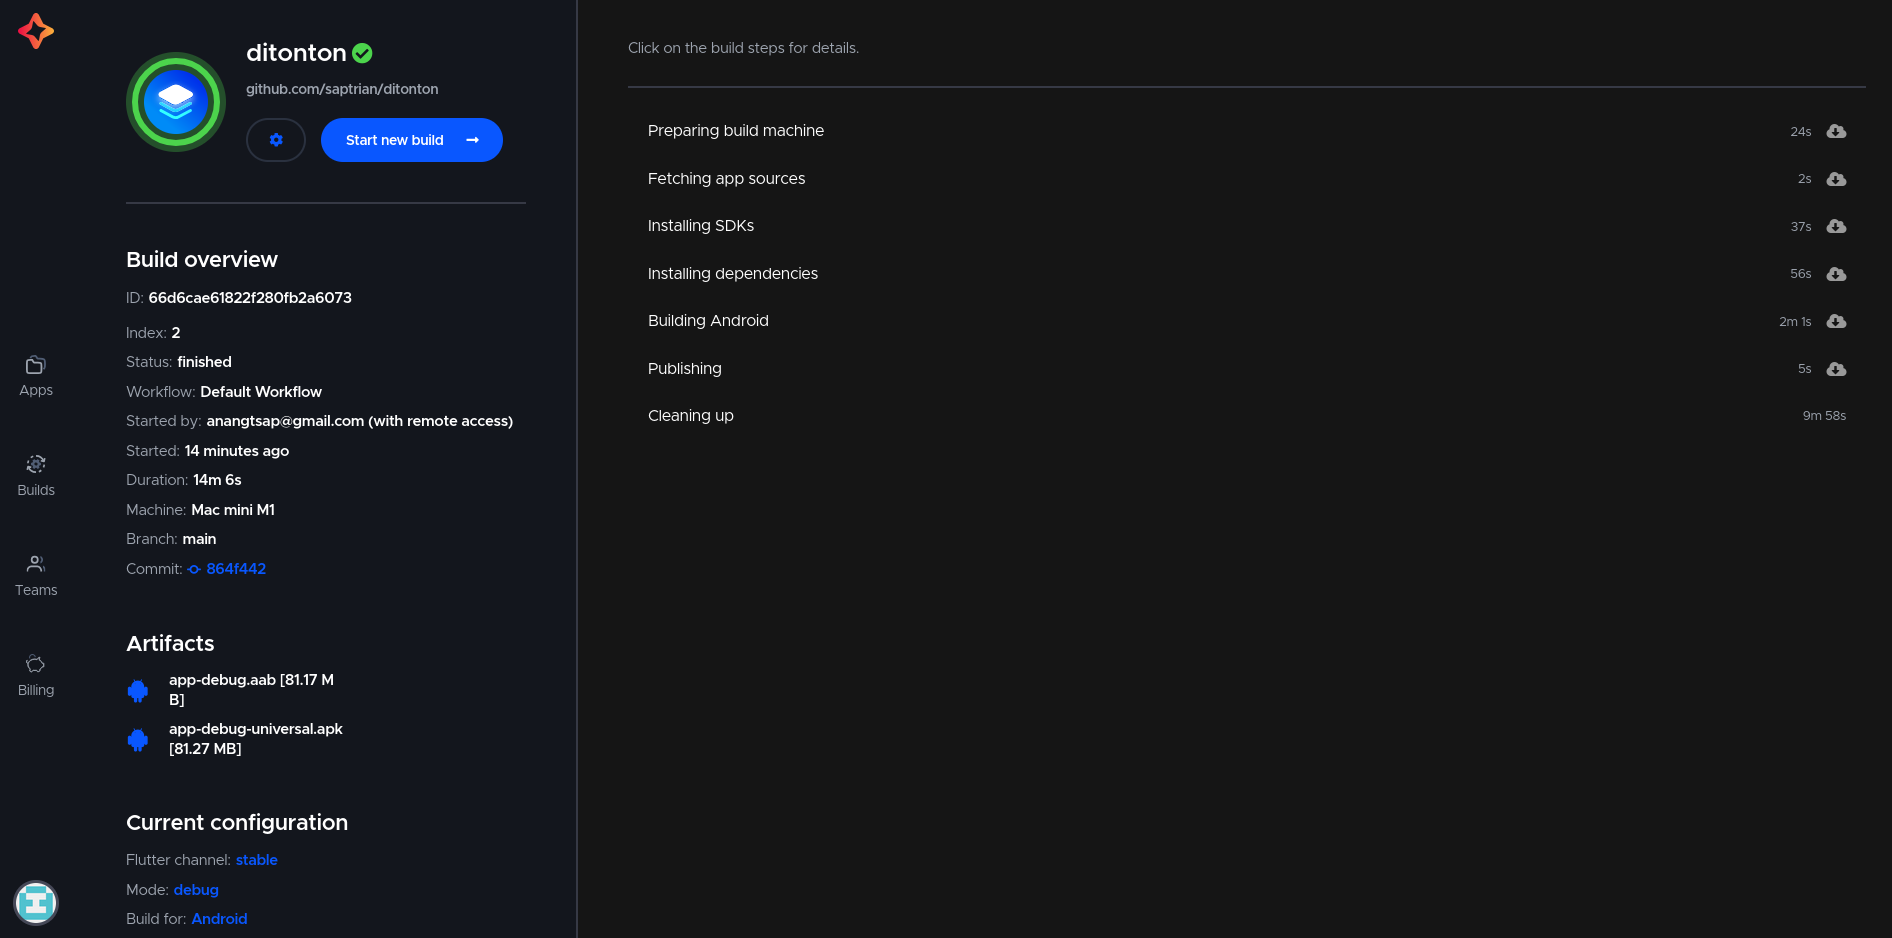
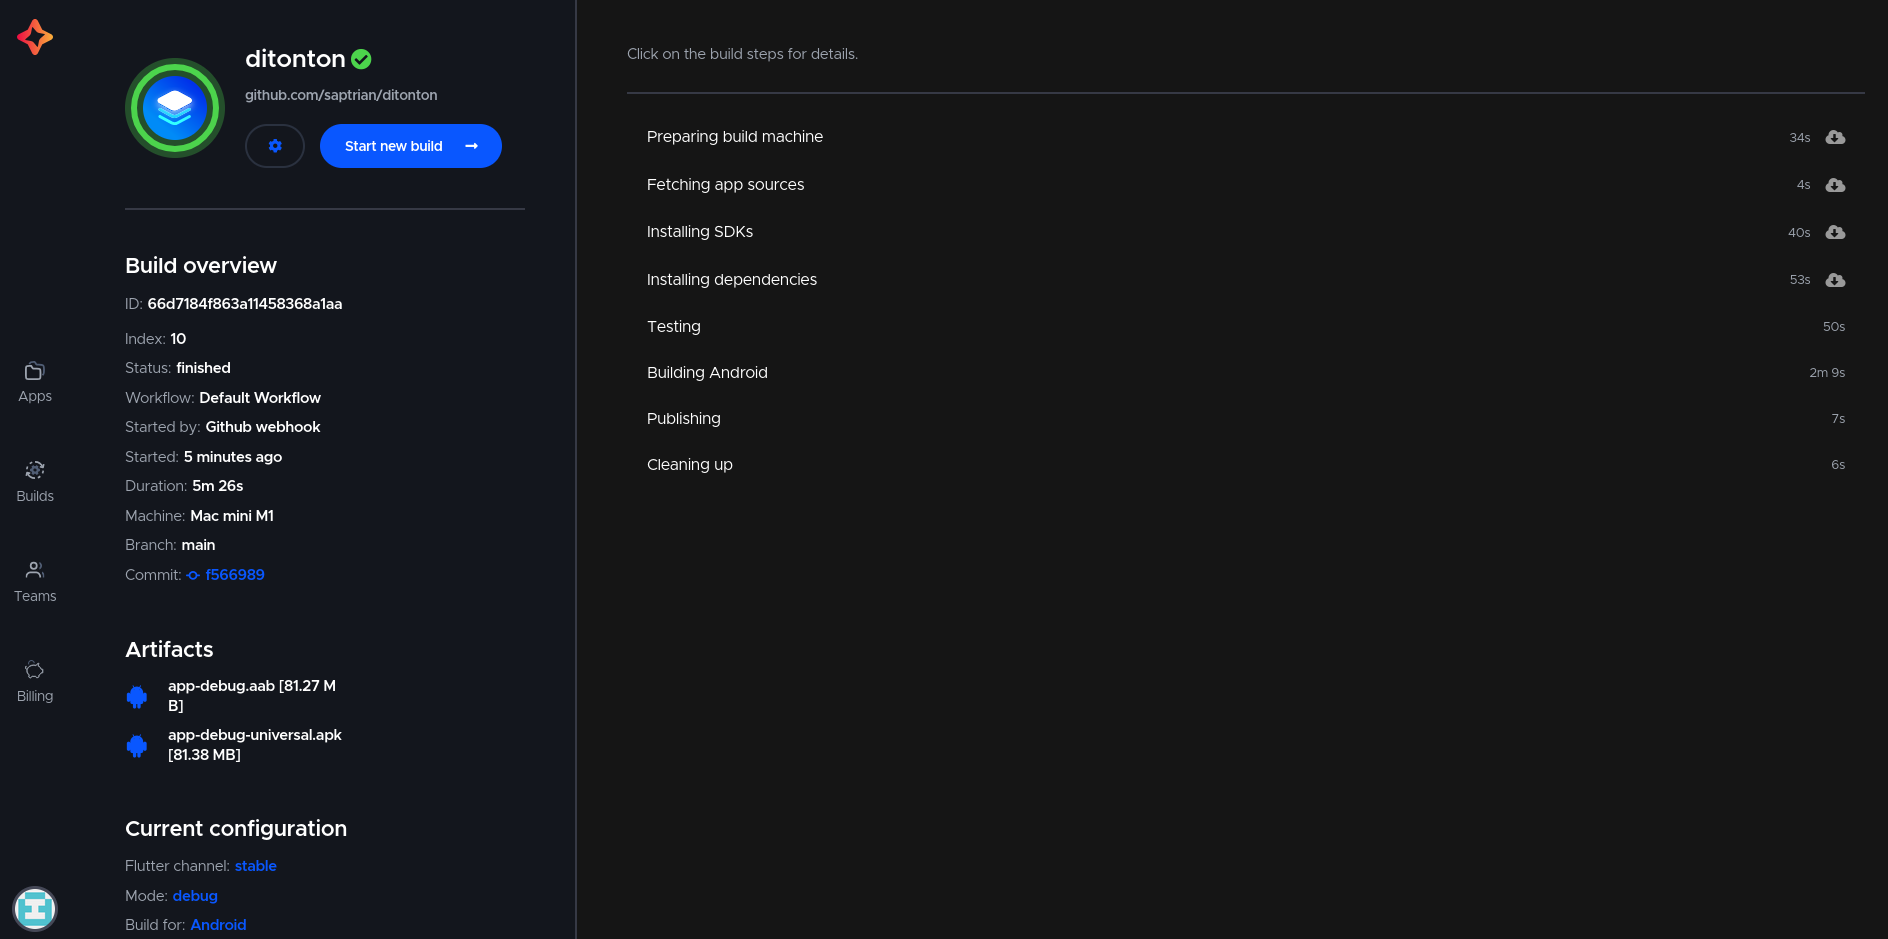
update badge and img

diff --git a/README.md b/README.md
@@ -1,6 +1,6 @@
 # ditonton
 
-[![Codemagic build status](https://api.codemagic.io/apps/66d6c76e0becf10eb5ff9a3e/66d71580863a114583688a96/status_badge.svg)](https://codemagic.io/app/66d6c76e0becf10eb5ff9a3e/build/66d71580863a114583688a96)
+[![Codemagic build status](https://api.codemagic.io/apps/66d6c76e0becf10eb5ff9a3e/test_and_build/status_badge.svg)](https://codemagic.io/app/66d6c76e0becf10eb5ff9a3e/build/66d71580863a114583688a96)
 
 **ditonton** is a sleek and user-friendly mobile application that provides up-to-date information about movies and TV series using data from The Movie Database (TMDb) API. Whether you're a casual viewer or a dedicated cinephile, this app is your go-to resource for discovering new films, exploring popular TV shows, and tracking your favorites.
 
